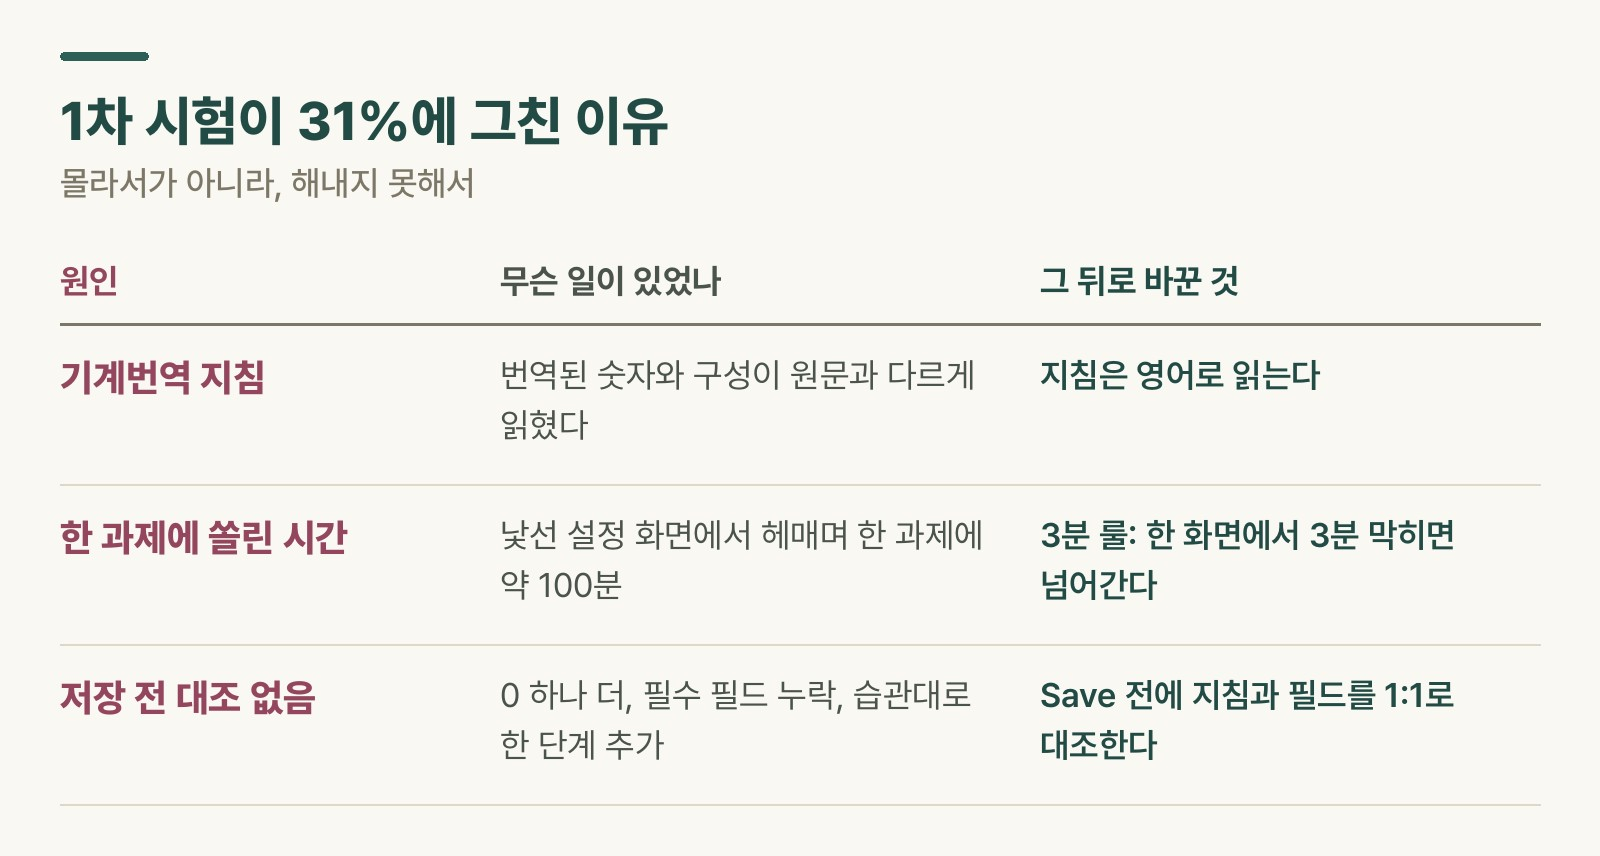
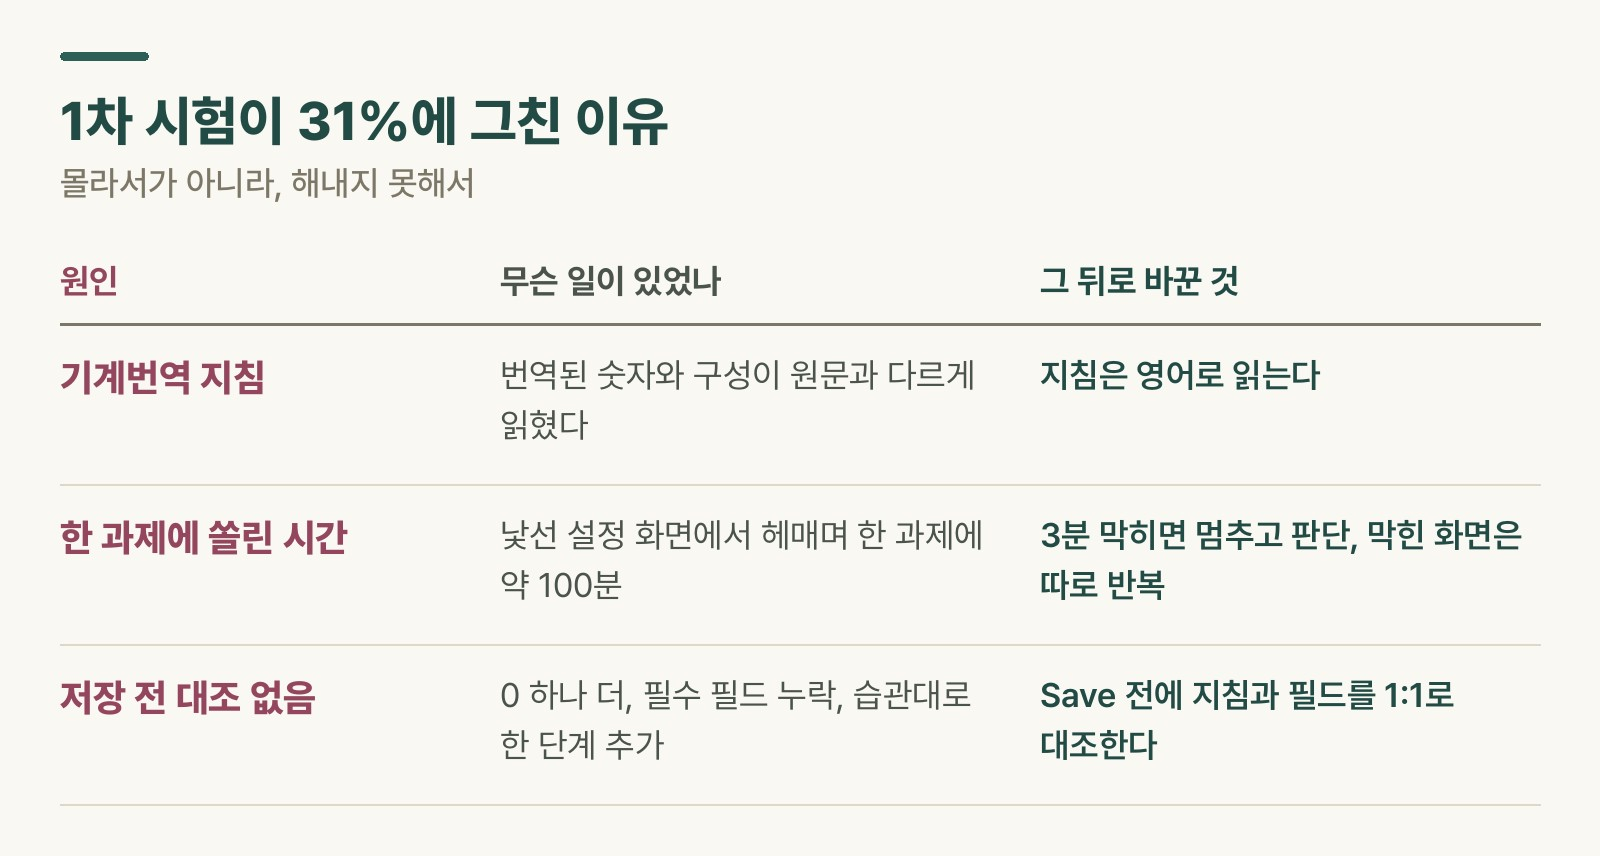
SAP MM 연재 3편 발행 + 2편 도식 '3분 점검' 반영 (#4)
* 3편(연습 전략) 한글·영문을 블로그로 이동, 2편에서 3편 연결

Claude-Session: https://claude.ai/code/session_013sML9pAEqnrmzvpCSp2NBT

* 3분 룰을 '3분 점검'(멈추고 판단)으로 재정의: 2편 도식, 3편 본문, 5편 원고

연쇄 구조 시험에서 무조건 건너뛰기는 맞지 않고, 실전에서는 막힌 곳이 거의 없어 쓰지 않았다는 실제 경험에 맞춤

Claude-Session: https://claude.ai/code/session_013sML9pAEqnrmzvpCSp2NBT

* 3편: 접속 시간 항목 삭제, AI 허용 여부를 단정하지 않는 표현으로

Claude-Session: https://claude.ai/code/session_013sML9pAEqnrmzvpCSp2NBT

* 3편: 교재 과제 우선순위를 AI로 추린 연습 방법 추가

Claude-Session: https://claude.ai/code/session_013sML9pAEqnrmzvpCSp2NBT

---------

Changed region(s): [[0.6875, 0.6075, 0.9688, 0.6682], [0.625, 0.6682, 0.75, 0.6986]]

diff --git a/scripts/diagrams/gen_mm_c_ts452.py b/scripts/diagrams/gen_mm_c_ts452.py
@@ -61,7 +61,7 @@ T_2_01 = {
         "head": ("원인", "무슨 일이 있었나", "그 뒤로 바꾼 것"),
         "rows": [
             ("기계번역 지침", "번역된 숫자와 구성이 원문과 다르게 읽혔다", "지침은 영어로 읽는다"),
-            ("한 과제에 쏠린 시간", "낯선 설정 화면에서 헤매며 한 과제에 약 100분", "3분 룰: 한 화면에서 3분 막히면 넘어간다"),
+            ("한 과제에 쏠린 시간", "낯선 설정 화면에서 헤매며 한 과제에 약 100분", "3분 막히면 멈추고 판단, 막힌 화면은 따로 반복"),
             ("저장 전 대조 없음", "0 하나 더, 필수 필드 누락, 습관대로 한 단계 추가", "Save 전에 지침과 필드를 1:1로 대조한다"),
         ],
     },
@@ -75,7 +75,7 @@ T_2_01 = {
              "Read the instructions in English"),
             ("Time sink",
              "About 100 minutes lost in unfamiliar configuration screens",
-             "3-minute rule: stuck on a screen, move on"),
+             "Stuck 3 minutes? Stop and decide; drill weak screens"),
             ("No check before Save",
              "An extra zero, a missing field, one step added out of habit",
              "Compare every field with the instructions before saving"),

diff --git a/src/content/blog/en/sap-mm-c-ts452-certification-3.md b/src/content/blog/en/sap-mm-c-ts452-certification-3.md
@@ -1,7 +1,7 @@
 ---
 title: "SAP MM certification C_TS452 practice strategy: the same dish, faster and more precisely"
 mapTitle: "SAP MM certification C_TS452 practice strategy"
-description: "How I practiced for my SAP MM certification (C_TS452) retake: switching to English course material, a three-stage practice plan, the 3-minute rule, checking before every save, and working on a shared practice system."
+description: "How I practiced for my SAP MM certification (C_TS452) retake: switching to English course material, a three-stage practice plan, the 3-minute check, checking before every save, and working on a shared practice system."
 pubDate: 2026-10-15
 category: "study"
 series: "SAP MM certification journey"
@@ -18,7 +18,7 @@ After my [first attempt failed](/en/blog/sap-mm-c-ts452-certification-2), I reac
 > **Three-line summary**
 > - I kept learning concepts in Korean, but switched all screen work and instruction reading to English.
 > - I designed practice in three stages (learn the screens → hit the time → full rehearsal) and got a 3-hour practice set down to about 100 minutes.
-> - I built execution rules such as the 3-minute rule, checking before saving, and verifying checkpoints right away, and used them as-is in the exam.
+> - I built execution rules such as the 3-minute check, checking before saving, and verifying checkpoints right away, and drilled them into practice.
 
 [[TOC]]
 
@@ -33,12 +33,12 @@ Repeating the course exercises in English builds two things at once: an eye that
 
 ## Designing C_TS452 practice in three stages
 
-My practice material, from start to finish, was the exercises in the Learning Hub courses. I repeated those exercises, which cover the whole exam scope, with a different goal at each stage.
+My practice material, from start to finish, was the exercises in the Learning Hub courses. There were a lot of them, so I had an AI organize the course outlines and each course's learning objectives, and used that to **pick out the core exercises I needed to master in each course**. I then repeated those exercises with a different goal at each stage.
 
 | Stage | Goal | Method | Pass criteria |
 |---|---|---|---|
 | R1 Learn the screens | Complete every course exercise once | No time limit; dig into anything unclear | All done + list of screens where I got stuck |
-| R2 Hit the time | Meet a target time per area | 3-minute rule, mandatory check before saving | Finish within target time |
+| R2 Hit the time | Meet a target time per area | 3-minute check, mandatory check before saving | Finish within target time |
 | R3 Full rehearsal | Bundle exercises into a 3-hour set, run like an exam | 3 hours straight, spare time for full verification | Finish on time + verify |
 
 *Table 1. Three-stage practice plan*
@@ -50,9 +50,9 @@ The first time I timed a full run in R2, I was **17 minutes over target**. Break
 
 ## Five execution rules
 
-These are the rules I built while practicing. I used them as-is in the exam.
+These are the rules I built while practicing. I followed them throughout practice and worked in the same order in the exam.
 
-1. **The 3-minute rule**: if I am stuck on one screen for 3 minutes, I note the item number and move on. This is the safeguard against losing 70 minutes on a few screens, as I did in the first attempt.
+1. **The 3-minute check**: if I am stuck on one screen for more than 3 minutes, I stop and decide. If no later task depends on the item, I note its number and move on; if a later task uses its result, I reread the instructions from the top. I don't skip blindly because the exam is a chain where later tasks use the output of earlier ones. I collected every screen that took more than 3 minutes and drilled it separately, so in the actual exam I hardly ever needed this rule.
 2. **Check right before saving**: before Save, I match each field in the instructions with the value on screen, one to one. Especially the number of digits.
 3. <strong class="key">Verify checkpoints right away</strong>: wherever an object is created or a document number is generated, I open the display screen right after saving to confirm it. In practice alone, a single checkbox that did not save threw off an entire later task twice.
 4. **Don't touch values the instructions don't mention**: "improving" a value the system proposed, such as a delivery date, is a waste of time. What gets graded is the values written in the instructions.
@@ -65,7 +65,6 @@ The Learning Hub practice system is a server shared by learners around the world
 - **Names collide**: sometimes the code I wanted to create already existed because someone else made it. I changed the code prefix for each round (for example Y0 → Y1 → Y2) to avoid collisions.
 - **Settings change**: once, someone had changed a system setting, so it behaved differently from the course material. When that happens, the first step is to separate my own mistake from an environment problem.
 - **Dates follow the server**: the server runs on German time, so practicing in the early morning in Korea puts "today" a day off. Tasks involving dates have to be calculated with the system date.
-- **Save your connection time**: closing the browser tab stops the subscription time from counting down. I kept it open only while studying.
 
 ## Doubt your practice notes too
 
@@ -77,7 +76,7 @@ After that, I graded my notes. I separated **what I had confirmed in the course 
 
 The SyBA exam felt close to open book, in that searching the internet was possible. Thanks to steady practice I never got badly stuck, but when a menu path was confusing I did look up public material.
 
-AI tools and screen captures are a different matter. Communities such as Reddit are divided on whether they are allowed, and some say screen captures are detected. Since the exam exists to check whether you can operate the system yourself, **it is safest to assume that help from AI is effectively not allowed**. Check the allowed scope yourself in the candidate agreement and SAP's official guidance before you sit the exam. In the end, the only thing you can rely on in the exam room is the procedure your hands learned through practice.
+AI tools and screen captures are a different matter. Communities such as Reddit are divided on whether they are allowed, and some say screen captures are detected. Check the allowed scope yourself in the candidate agreement and SAP's official guidance before you sit the exam. Above all, this exam exists to check whether you can operate the system yourself. In the end, the only thing you can rely on in the exam room is the procedure your hands learned through practice.
 
 ## Rabbit's Takeaway
 

diff --git a/drafts/sap-mm-c-ts452/NOTES.md b/drafts/sap-mm-c-ts452/NOTES.md
@@ -4,8 +4,8 @@
 | 편 | 슬러그 | 발행일(pubDate) | 상태 |
 |---|---|---|---|
 | 1 | sap-mm-c-ts452-certification-1 | 2026-10-11 | 게시 완료 |
-| 2 | sap-mm-c-ts452-certification-2 | 2026-10-13 | PR 대기 — 운영자 "올려" 확인 필요 |
-| 3 | sap-mm-c-ts452-certification-3 | 2026-10-15 | 한글·영문 초안(drafts) |
+| 2 | sap-mm-c-ts452-certification-2 | 2026-10-13 | 게시 완료(10/11 운영자 지시로 게시) |
+| 3 | sap-mm-c-ts452-certification-3 | 2026-10-15 | src/content로 이동, PR 미리보기 |
 | 4 | sap-mm-c-ts452-certification-4 | 2026-10-17 | 한글·영문 초안(drafts) |
 | 5 | sap-mm-c-ts452-certification-5 | 2026-10-19 | 한글·영문 초안(drafts) |
 | 0 | sap-mm-c-ts452-certification (총정리) | 2026-10-21 | 원본만, 맨 마지막 |
@@ -18,7 +18,7 @@
 - 시리즈 다음 편 연결은 관련글 주석의 `deepens=`로 한다(더 읽어보기 최대 3개, prerequisite→deepens→related 순).
 - **시험 문항 노출 금지**: "연습 과제 = 시험 문제", "재응시 때 같은 문제" 로 읽히는 표현을 쓰지 않는다.
   연습은 Learning Hub 교재 연습 과제 기준으로 서술하고, 문항에 가까운 구체 예시는 일반화한다.
-- 시험 중 AI 사용 경험은 쓰지 않는다. "AI는 사실상 허용되지 않는다고 보는 게 안전, 공식 규정 확인" 톤.
+- 시험 중 AI 사용 경험은 쓰지 않는다. AI 허용 여부를 단정하지 않는다("의견이 갈린다, 공식 규정 직접 확인, 시험은 스스로 다룰 수 있는지를 보는 자리" 톤).
 - Credly 배지·수령일은 빼고 점수로 대체. Stay Certified 기한은 "2027년 10월"까지만.
 - 실제 소요 시간(3차): 과제 처리 80–90분, 검증 포함 약 2시간 만에 제출, 약 1시간 남음.
 

diff --git a/src/content/blog/en/sap-mm-c-ts452-certification-2.md b/src/content/blog/en/sap-mm-c-ts452-certification-2.md
@@ -68,7 +68,7 @@ The failure stung, but it clearly gave me something.
 
 Here are the three causes, and what I changed afterward, on one page.
 
-![Table of the three causes of my first SAP MM certification C_TS452 failure: machine-translated instructions fixed by reading in English, time sunk into one task fixed by a 3-minute rule, and no check before saving fixed by comparing every field before Save](/images/sap-mm-c-ts452-certification-2-01.jpg)
+![Table of the three causes of my first SAP MM certification C_TS452 failure: machine-translated instructions fixed by reading in English, time sunk into one task fixed by a 3-minute check and drilling weak screens, and no check before saving fixed by comparing every field before Save](/images/sap-mm-c-ts452-certification-2-01.jpg)
 *Figure 1. The causes of my 31% first attempt and what I changed afterward*
 
 ## Rabbit's Takeaway
@@ -80,6 +80,7 @@ What I lacked in the first attempt was not MM knowledge. ==What decided the scor
 **Read more**
 
 - [SAP MM certification C_TS452 exam structure: before you step into the practice kitchen](/en/blog/sap-mm-c-ts452-certification-1)
+- [SAP MM certification C_TS452 practice strategy: the same dish, faster and more precisely](/en/blog/sap-mm-c-ts452-certification-3)
 - [SAP certification exams: from a written test to a hands-on kitchen exam room](/en/blog/sap-exam-format)
 
-<!-- Related posts: prerequisite=sap-mm-c-ts452-certification-1; related=sap-exam-format; deepens= -->
+<!-- Related posts: prerequisite=sap-mm-c-ts452-certification-1; related=sap-exam-format; deepens=sap-mm-c-ts452-certification-3 -->

diff --git a/drafts/sap-mm-c-ts452/ko/sap-mm-c-ts452-certification-5.md b/drafts/sap-mm-c-ts452/ko/sap-mm-c-ts452-certification-5.md
@@ -47,7 +47,7 @@ tags: ["SAP학습자료", "SAP자격증", "SAPMM", "C_TS452", "StayCertified"]
 - **전수 검증**: 약 35분
 - **남은 시간**: 약 1시간
 
-과제 중에는 3분 룰(한 화면에서 3분 막히면 건너뛰기)과 저장 직전 대조를 지켰습니다. 문서 번호가 생기면 바로 메모했습니다. 나중에 검증할 때 번호를 다시 찾느라 시간을 쓰지 않기 위해서입니다.
+과제 중에는 저장 직전 대조를 빠짐없이 지켰습니다. 연습 때 만든 3분 점검은 막히는 곳이 거의 없어 꺼낼 일이 없었습니다. 연습이 그만큼 손에 붙었다는 뜻이었습니다. 문서 번호가 생기면 바로 메모했습니다. 나중에 검증할 때 번호를 다시 찾느라 시간을 쓰지 않기 위해서입니다.
 
 ## 마지막 전수 검증
 

diff --git a/drafts/sap-mm-c-ts452/en/sap-mm-c-ts452-certification-5.md b/drafts/sap-mm-c-ts452/en/sap-mm-c-ts452-certification-5.md
@@ -47,7 +47,7 @@ The exam allowed 3 hours, but I actually submitted after about 2.
 - **Full verification**: about 35 minutes
 - **Time left over**: about 1 hour
 
-During the tasks I kept the 3-minute rule (stuck on one screen for 3 minutes, skip) and the check right before saving. Whenever a document number was generated, I noted it immediately, so I would not waste time hunting for numbers during verification.
+During the tasks I never skipped the check right before saving. The 3-minute check from practice never came up, because I hardly got stuck anywhere; that was a sign of how well the practice had stuck. Whenever a document number was generated, I noted it immediately, so I would not waste time hunting for numbers during verification.
 
 ## Final full verification
 
